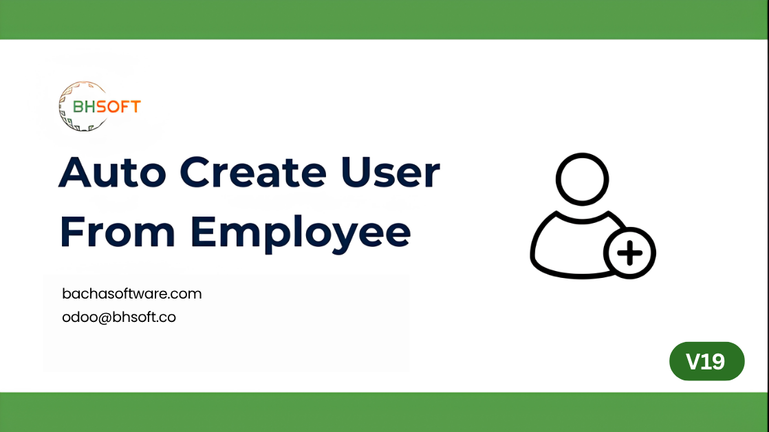
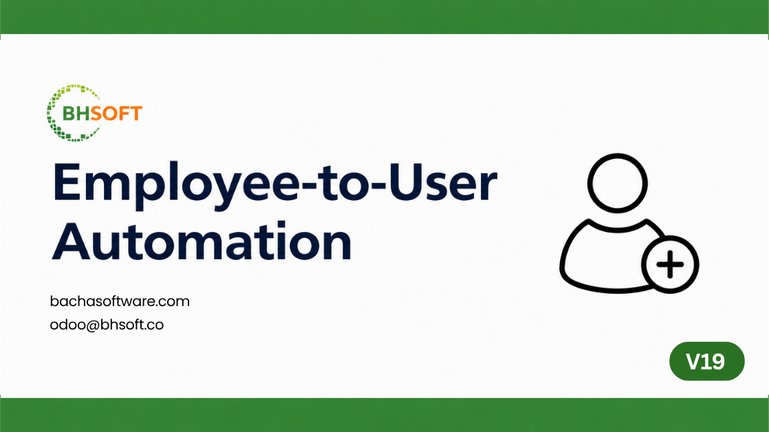
v19: update other module

diff --git a/bhs_employee_user/static/description/index.html b/bhs_employee_user/static/description/index.html
@@ -12,16 +12,16 @@
                     <img src="./imgs/logo-bhsoft.png" style="width: auto ;height: 32px ; margin-top: 2px;">
                 </div>
                 <div  style="font-size: 30px ; color: #FF8000; font-family: Inter, sans-serif; margin-top: 16px; font-weight: 700; line-height: 37.5px; font-family: Inter;">
-                    <p>Auto create user from employee</p>
+                    <p>Employee-to-user Automation</p>
                 </div>
                 <div  style="text-align: justify;font-size: 14px ; color: #4A5565; margin-top: 16px; font-family: Inter, sans-serif; line-height: 22px; font-weight: 400; max-width: 528px;">
                     <p style="margin-bottom: 0px;">
-                        Auto create user from employee by Bac Ha Software is an Odoo add-on that automatically creates a user account when a new employee is created. Developed from the core Employee module, it simplifies user creation, helps reduce manual effort, and saves time.
+                        Employee-to-user Automation by Bac Ha Software is an Odoo add-on that automatically creates a user account when a new employee is created. Developed from the core Employee module, it simplifies user creation, helps reduce manual effort, and saves time.
                     </p>
                 </div>
                 <div  style="text-align: justify;font-size: 14px ; color: #4A5565; margin-top: 10px; font-family: Inter, sans-serif; line-height: 23px; font-weight: 400; max-width: 528px; margin-left:108px">
                     <p>
-                        Module được thiết kế để đơn giản hóa quy trình tạo tài khoản người dùng mới trong doanh nghiệp. Hệ thống tự động tạo tài khoản khi thêm nhân sự, giúp giảm thao tác thủ công và nâng cao hiệu quả quản lý.
+                        Employee-to-user Automation được thiết kế nhằm đơn giản hóa quy trình tạo người dùng mới trong doanh nghiệp. Ứng dụng cho phép hệ thống tự động tạo tài khoản người dùng khi tạo mới nhân sự, giúp doanh nghiệp giảm thao tác thủ công và quản lý nhân sự hiệu quả.
                     </p>
                 </div>
                 <div style="margin-top: 16px; display: flex;">

diff --git a/bhs_employee_user/__manifest__.py b/bhs_employee_user/__manifest__.py
@@ -1,5 +1,5 @@
 {
-    'name': "Auto create user from employee",
+    'name': "Employee-to-user Automation",
     'version': '19.0.1.0',
     'description': """
        Automatically create a new user from a new employee 
